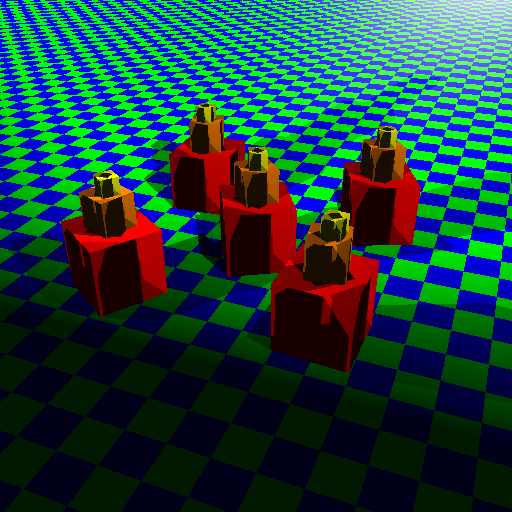
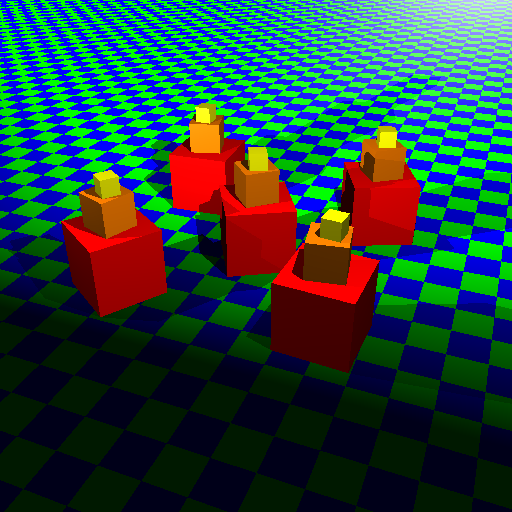
z

Changed region(s): [[0.3125, 0.1875, 0.8125, 0.75], [0.125, 0.3125, 0.3125, 0.625]]

diff --git a/A4/src/comp557/a4/Scene.java b/A4/src/comp557/a4/Scene.java
@@ -4,6 +4,8 @@ import java.util.ArrayList;
 import java.util.HashMap;
 import java.util.List;
 import java.util.Map;
+import java.util.Random;
+
 import javax.vecmath.Color3f;
 import javax.vecmath.Matrix4d;
 import javax.vecmath.Vector3d;
@@ -57,7 +59,7 @@ public class Scene {
      * renders the scene
      */
     public void render(boolean showPanel) {
- 
+		Random rnd = new Random(System.currentTimeMillis());
         Camera cam = render.camera; 
         int w = cam.imageSize.width;
         int h = cam.imageSize.height;
@@ -80,14 +82,33 @@ public class Scene {
 					// TODO: Objective 1: generate a ray (use the generateRay method)
 					Ray ray = new Ray();
 					double[] offset = new double[2];
-					offset[0] = 0;
-					offset[1] = 0;
+
+					//supersampling
+					if (render.samples>1) {
+						offset[0] = rnd.nextDouble()-0.5;
+						offset[1] = rnd.nextDouble()-0.5;
+					}
+					
+
 					generateRay(i, j, offset, cam, ray);
 					// TODO: Objective 2: test for intersection with scene surfaces
 					IntersectResult info = new IntersectResult();
-					for (Intersectable surface : surfaceList) {
-						surface.intersect(ray, info);
-					}
+					int reflections = 0;
+					final int maxreflections = 5;
+					do {
+						for (Intersectable surface : surfaceList) {
+							surface.intersect(ray, info);
+						}
+						if (info.material!=null&&info.material.name.equals("reflection")) {
+							Vector3d wi = v3d.normalize(v3d.minus(info.p, ray.eyePoint));
+							ray = new Ray(info.p,v3d.minus(wi,v3d.times(info.n, 2*v3d.dot(wi, info.n))));
+							info = new IntersectResult();
+							reflections++;
+						}else{
+							reflections = maxreflections;
+						}
+					} while (reflections<maxreflections);
+					
 					
 					// TODO: Objective 3: compute the shaded result for the intersection point (perhaps requiring shadow rays)
 					if (info.t==Double.POSITIVE_INFINITY) {
@@ -102,19 +123,28 @@ public class Scene {
 							Vector3d n = v3d.normalize(info.n);
 							Vector3d bisector = v3d.normalize(v3d.add(v3d.normalize(wi), v3d.normalize(wo)));
 	
-							IntersectResult r = new IntersectResult();
-							//if in shadow then ignore that light's contribution
-							if (inShadow(null, light, surfaceList, r, new Ray(info.p,v3d.normalize(v3d.minus(light.from, info.p))))) continue;
-	
-							//assume the I term in the light formula in obtained by lightcolor*lightpower
-							//specular using blinn phong
-							if (i==120&&j==80) {
+							if (i==300&&j==100) {
 								int pfda = 124123;
 							}
-							
-							color = v3d.add(color,v3d.times(light.color,v3d.times(info.material.specular, light.power*Math.pow(Math.max(0, v3d.dot(n, bisector)),info.material.shinyness))));
-							//diffuse
-							color = v3d.add(color,v3d.times(light.color,v3d.times(info.material.diffuse, Math.max(0, v3d.dot(wi, n))*light.power)));
+							IntersectResult r = new IntersectResult();
+							double contribution = 1;
+
+							if (light.type.equals("point")) {
+								//if in shadow then ignore that light's contribution
+								if (inShadow(null, light, surfaceList, r, new Ray(info.p,v3d.normalize(v3d.minus(light.from, info.p))),v3d.minus(light.from, info.p).length())) continue;
+							}else{
+								for (int n_lightsample = 0; n_lightsample < 30; n_lightsample++) {
+									Vector3d samplelight = light.randomPoint();
+									if (inShadow(null, light, surfaceList, r, new Ray(info.p,v3d.normalize(v3d.minus(samplelight, info.p))),v3d.minus(samplelight, info.p).length())) 
+										contribution-=0.02;
+								}
+							}
+
+							//assume the I term in the light formula in obtained by lightcolor*lightpower
+								//specular using blinn phong
+								color = v3d.add(color,v3d.times(light.color,v3d.times(info.material.specular, contribution*light.power*Math.pow(Math.max(0, v3d.dot(n, bisector)),info.material.shinyness))));
+								//diffuse
+								color = v3d.add(color,v3d.times(light.color,v3d.times(info.material.diffuse, contribution*light.power*Math.max(0, v3d.dot(wi, n)))));
 						}
 						color = v3d.add(color, v3d.times(info.material.diffuse, ambient));
 						
@@ -122,6 +152,7 @@ public class Scene {
 						color.y = Math.min(1, color.y);
 						color.z = Math.min(1, color.z);
 						clrs[i][j] = v3d.add(color, clrs[i][j]);
+						render.setPixel(i, j, getcolor(clrs[i][j],255));
 					}
 				}
             }
@@ -176,8 +207,8 @@ public class Scene {
 		double py = (2.0*j/height-1.0);
 		
 		//offset the pixel
-		double dirx = offset[0] * (variation+0.5) + px;
-		double diry = offset[1] * (variation+0.5) + py;
+		double dirx = offset[0] * (variation) + px;
+		double diry = offset[1] * (variation) + py;
 		
 		//convert to world space
 		ray.viewDirection = v3d.times(v3d.normalize(v3d.times(lookat, new Vector3d(dirx, diry, d))),-1);
@@ -194,12 +225,12 @@ public class Scene {
 	 * 
 	 * @return True if a point is in shadow, false otherwise. 
 	 */
-	public static boolean inShadow(final IntersectResult result, final Light light, final List<Intersectable> root, IntersectResult shadowResult, Ray shadowRay) {
-		
+	public static boolean inShadow(final IntersectResult result, final Light light, final List<Intersectable> root, IntersectResult shadowResult, Ray shadowRay,double maxT) {
+		shadowRay.direct = false;
 		// TODO: Objective 5: check for shdows and use it in your lighting computation
 		for (Intersectable obj : root) {
 			obj.intersect(shadowRay, shadowResult);
-			if (shadowResult.t<Double.POSITIVE_INFINITY) {
+			if (shadowResult.t<maxT) {
 				return true;
 			}
 		}

diff --git a/A4/src/comp557/a4/SceneNode.java b/A4/src/comp557/a4/SceneNode.java
@@ -37,6 +37,8 @@ public class SceneNode extends Intersectable {
     
     /** Child nodes */
     public List<Intersectable> children;
+
+    
     
     /**
      * Default constructor.
@@ -57,9 +59,10 @@ public class SceneNode extends Intersectable {
     @Override
     public void intersect(Ray ray, IntersectResult result) {
     	tmpRay.eyePoint.set(ray.eyePoint);
-    	tmpRay.viewDirection.set(ray.viewDirection);
-    	Minv.transform(tmpRay.eyePoint);
-    	Minv.transform(tmpRay.viewDirection);    	
+        tmpRay.viewDirection.set(ray.viewDirection);
+        tmpRay.direct = ray.direct;
+        Minv.transform(tmpRay.eyePoint);
+    	Minv.transform(tmpRay.viewDirection); 
     	tmpResult.t = Double.POSITIVE_INFINITY;
     	tmpResult.n.set(0, 0, 1);
         for ( Intersectable s : children ) {
@@ -67,11 +70,13 @@ public class SceneNode extends Intersectable {
         }
         if ( tmpResult.t > 1e-5 && tmpResult.t < result.t ) {
 
-        	// TODO: do something useful here!
-        	result.t = tmpResult.t;
+            M.transform(tmpResult.n);
+            M.transform(tmpResult.p);
+            result.t = tmpResult.t;
         	result.material = tmpResult.material;
-        	result.n = tmpResult.n;
-        	result.p = tmpResult.p;
+        	result.n.set(tmpResult.n);
+            result.p.set(tmpResult.p);
+            
         }
     }
     

diff --git a/A4/src/comp557/a4/Light.java b/A4/src/comp557/a4/Light.java
@@ -1,10 +1,14 @@
 package comp557.a4;
 
+import java.util.List;
+import java.util.Random;
+
 import javax.vecmath.Color4f;
 import javax.vecmath.Point3d;
+import javax.vecmath.Vector3d;
 
 public class Light {
-	
+	Random rnd = new Random(System.currentTimeMillis());
 	/** Light name */
     public String name = "";
     
@@ -20,10 +24,19 @@ public class Light {
     /** Type of light, default is a point light */
     public String type = "point";
 
+    public double radius = 0;
+
     /**
      * Default constructor 
      */
     public Light() {
     	// do nothing
+    }
+    public Vector3d randomPoint(){
+        Vector3d v;
+        do {
+            v = new Vector3d(rnd.nextDouble()*1.2-0.6,rnd.nextDouble()*1.2-0.6,rnd.nextDouble()*1.2-0.6);
+        } while (v.lengthSquared()>=1&&v.lengthSquared()<0.7);
+        return v3d.add(v3d.times(v,radius*2), from);
     }
 }

diff --git a/A4/src/comp557/a4/Parser.java b/A4/src/comp557/a4/Parser.java
@@ -200,7 +200,12 @@ public class Parser {
         Node typeAttr = dataNode.getAttributes().getNamedItem("type");
         if ( typeAttr != null ) {
         	light.type = typeAttr.getNodeValue();
-        }        
+		}       
+		powerAttr = dataNode.getAttributes().getNamedItem("radius");
+        if ( powerAttr != null ) {
+        	light.radius = Double.parseDouble( powerAttr.getNodeValue() );
+        }     
+		
 		return light;
 	}
 	

diff --git a/A4/src/comp557/a4/Ray.java b/A4/src/comp557/a4/Ray.java
@@ -10,6 +10,7 @@ public class Ray {
 	
 	/** The direction of the ray */
 	public Vector3d viewDirection = new Vector3d( 0, 0, -1 );
+	public boolean direct = true;
 	
 	/**
 	 * Default constructor.  Be careful not to use the ray before

diff --git a/A4/src/comp557/a4/Plane.java b/A4/src/comp557/a4/Plane.java
@@ -43,8 +43,6 @@ public class Plane extends Intersectable {
 			}else {
 				result.material = material2==null?material:material2;
 			}
-			
-			
 		}
     }
     
